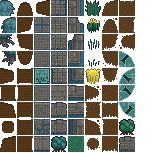
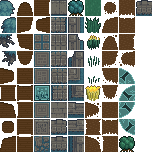
Striking dirt creates tilled soil

Changed region(s): [[0.1046, 0.0, 0.9935, 0.9935], [0.6797, 0.1307, 0.7059, 0.1569]]

diff --git a/client/models/map.ts b/client/models/map.ts
@@ -296,14 +296,15 @@ export default class Map {
       player: PIXI.Container;
     },
     sprites: { [spriteName: string] : PIXI.Sprite }, redraw = true) {
-    let nDirt = { north: false, east: false, south: false, west: false };
-    nDirt.north = this.isNeighborMappedAndRedraw(0, -1, p, containers, sprites, redraw);
-    nDirt.east = this.isNeighborMappedAndRedraw(1, 0, p, containers, sprites, redraw);
-    nDirt.south = this.isNeighborMappedAndRedraw(0, 1, p, containers, sprites, redraw);
-    nDirt.west = this.isNeighborMappedAndRedraw(-1, 0, p, containers, sprites, redraw);
-    let spriteMapRef = ((nDirt.north ? 1: 0) + ','
-      + (nDirt.east ? 1: 0) + ',' + (nDirt.south ? 1: 0) + ','
-      + (nDirt.west ? 1: 0));
+    // nmp = neighboring mapped pieces
+    let nmp = { north: false, east: false, south: false, west: false };
+    nmp.north = this.isNeighborMappedAndRedraw(0, -1, p, containers, sprites, redraw);
+    nmp.east = this.isNeighborMappedAndRedraw(1, 0, p, containers, sprites, redraw);
+    nmp.south = this.isNeighborMappedAndRedraw(0, 1, p, containers, sprites, redraw);
+    nmp.west = this.isNeighborMappedAndRedraw(-1, 0, p, containers, sprites, redraw);
+    let spriteMapRef = ((nmp.north ? 1: 0) + ','
+      + (nmp.east ? 1: 0) + ',' + (nmp.south ? 1: 0) + ','
+      + (nmp.west ? 1: 0));
     let spriteName = p.getSpecial('sprite_map').value[spriteMapRef];
     containers.tilemap.addFrame(PIXI.utils.TextureCache[spriteName],
       (p.box.x/3), (p.box.y/3));

diff --git a/client/game_states/play/handle_impact.ts b/client/game_states/play/handle_impact.ts
@@ -46,7 +46,11 @@ function destroyTarget(targetPiece: Piece, pMap: Map) {
     pMap.createAndDisplayPiece(PieceTypeNames.DIRT,
       (targetPiece.gridPos[0] + ',' + targetPiece.gridPos[1]),
       Math.floor(utils.rand() * 10000000), pieceTypes, pixiContainers, sprites);
-    let testDirt = pMap.getPieceByGridPos(targetPiece.gridPos);
+  }
+  else if (targetPiece.typeName == PieceTypeNames.DIRT) {
+    pMap.createAndDisplayPiece(PieceTypeNames.TILLED,
+      (targetPiece.gridPos[0] + ',' + targetPiece.gridPos[1]),
+      Math.floor(utils.rand() * 10000000), pieceTypes, pixiContainers, sprites);
   }
   let particleGroup: ParticleGroup = null;
 
